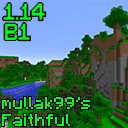
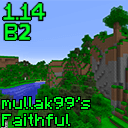
Minor texture fixes and added textures for some mods
- Added GUI textures for REI (not perfect yet) and ModMenu
- Fixed slighly misaligned Loom output slot
- Fixed 2 miscoloured pixels (yup, 2) on Brewing Stand GUI

Changed region(s): [[0.125, 0.1562, 0.25, 0.3438], [0.875, 0.9062, 0.9062, 0.9375], [0.0625, 0.7188, 0.0938, 0.75]]

diff --git a/README.md b/README.md
@@ -1,8 +1,8 @@
 # mullak99sFaithful
 
 **Current Recommended Version:** _v1.13_  
-**Current Beta Version:** _v1.14-BETA1_  
-**Current Dev Version:** _v1.14-BETA1_  
+**Current Beta Version:** _v1.14-BETA2_  
+**Current Dev Version:** _v1.14-BETA2_  
 
 ## Branch Breakdown
 

diff --git a/TODO.md b/TODO.md
@@ -1,0 +1,5 @@
+- Add missing 32x texture for 'campfire_fire'
+- Add missing 32x texture for 'campfire_log_lit'
+- Create CTM textures for stripped logs
+- Convert and add old CTM textures
+- More 3D Models (Rails etc.)
